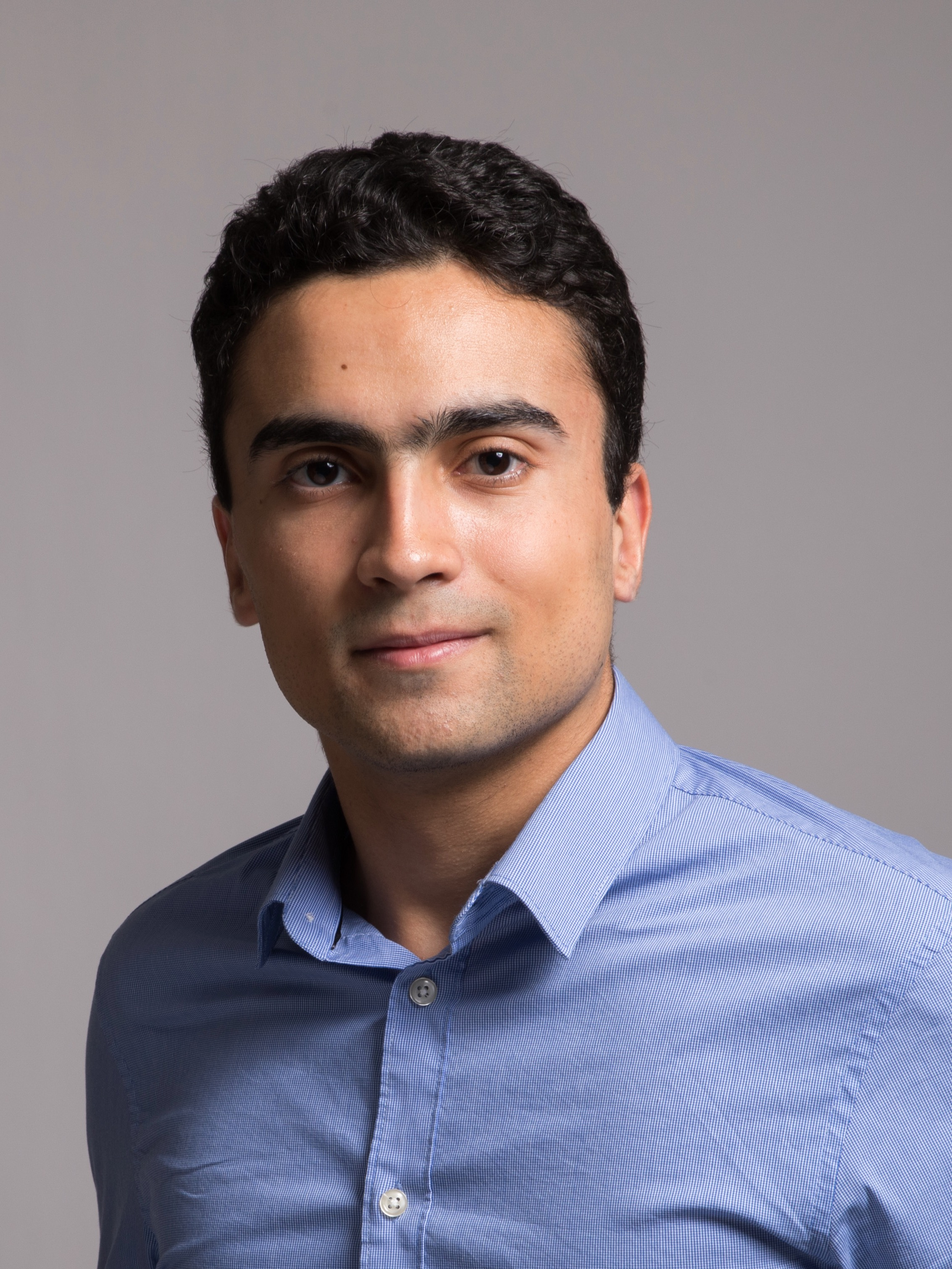
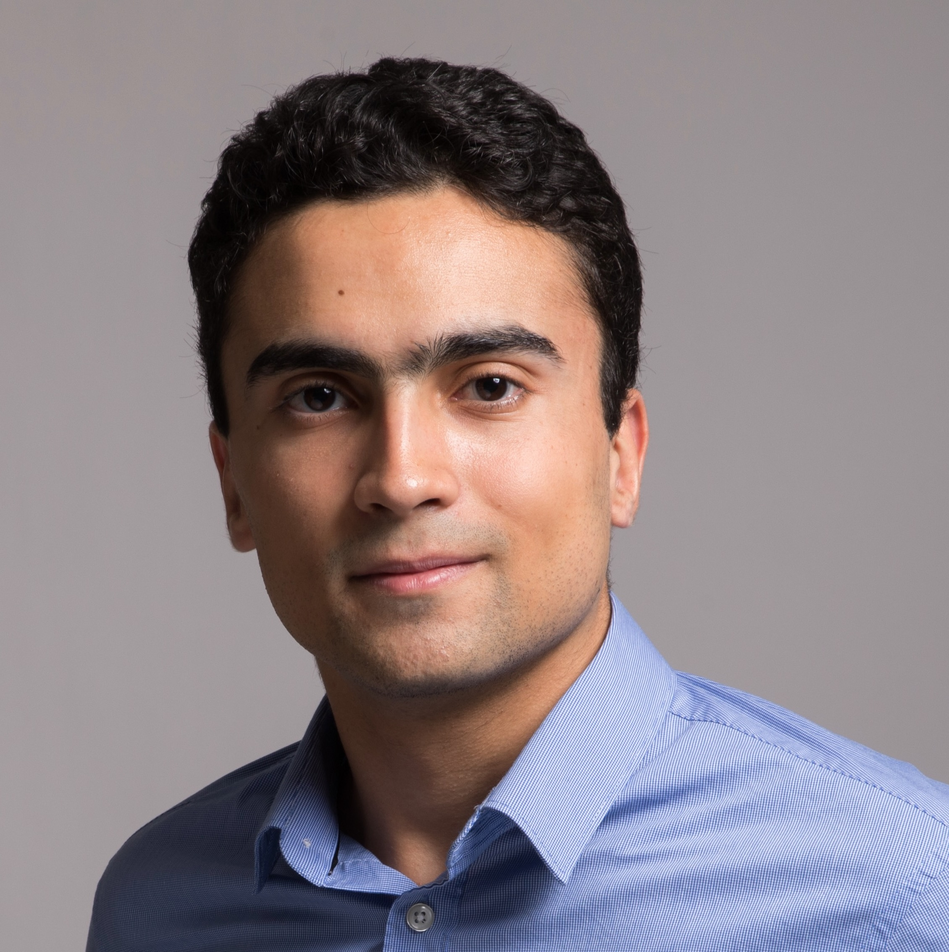
Fix image aspect ratio

diff --git a/index.md b/index.md
@@ -15,7 +15,7 @@ Year | Award | Category
 -----|-------|--------
 2022- | ETH Zurich | Doctoral Student
 2020-2022 | ETH Zurich | M.Sc. Computer Science
-2017-2020 | Ecole Polytechnique | Diplôme ingénieur
+2017-2020 | Ecole Polytechnique | Diplôme d'Ingénieur
 
 
 ## Publications
